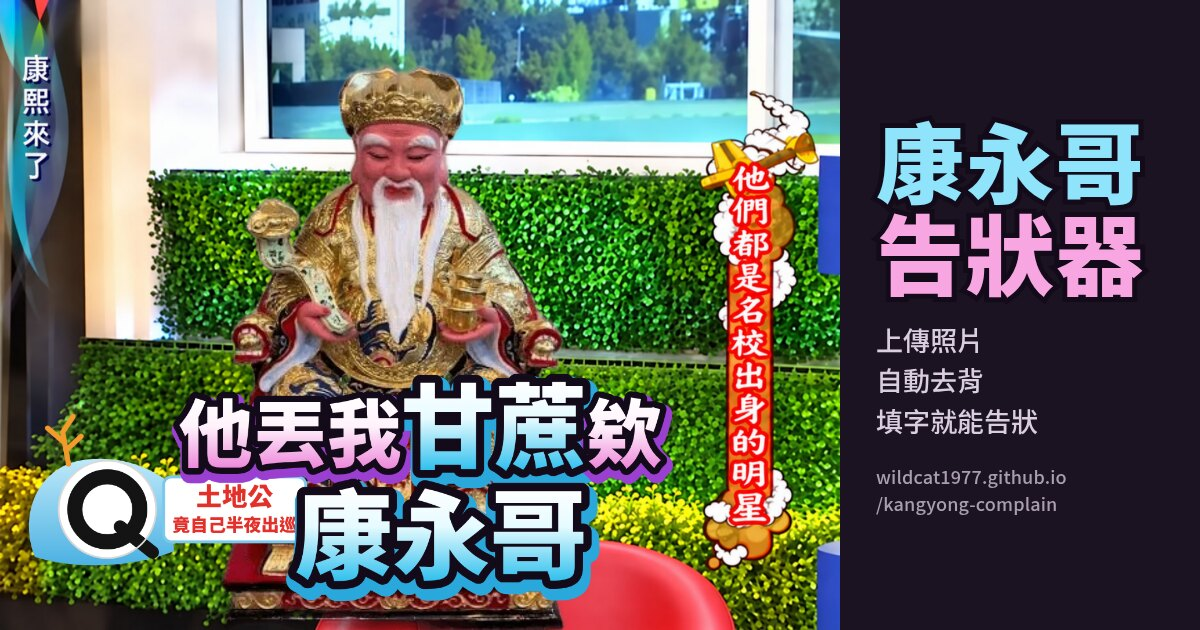
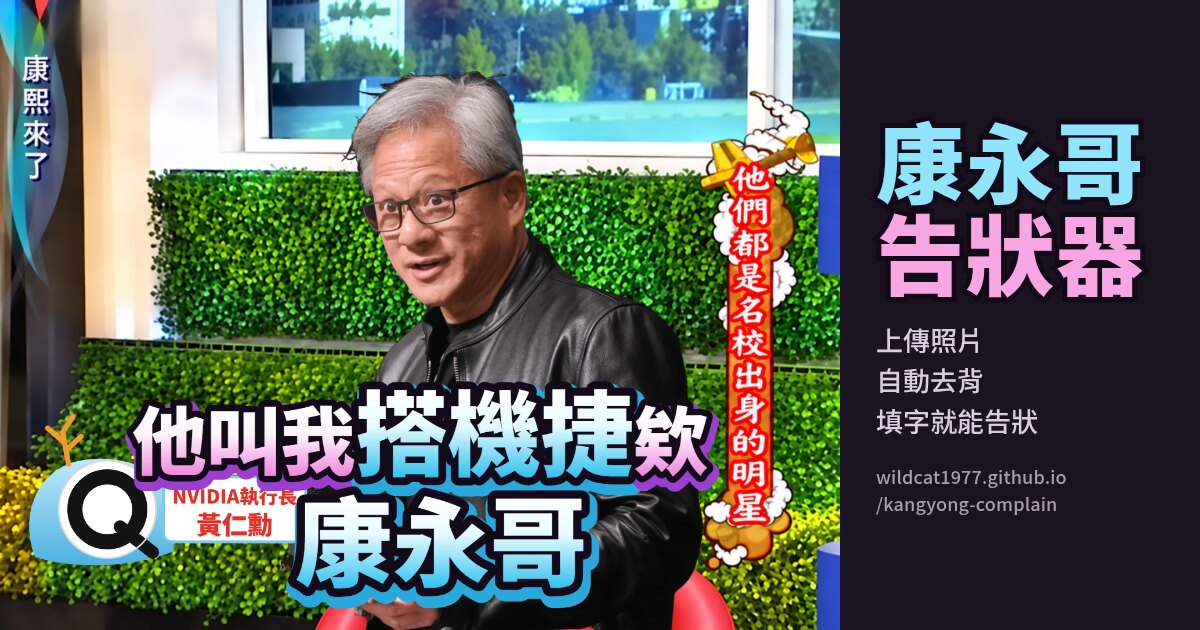
分享卡範例改用黃仁勳「他叫我[搭機捷]欸」
這是最早流傳的版本，辨識度最高。

Changed region(s): [[0.0925, 0.0905, 0.6167, 1.0]]

diff --git a/index.html b/index.html
@@ -12,7 +12,7 @@
 <meta property="og:image" content="https://wildcat1977.github.io/kangyong-complain/og.jpg">
 <meta property="og:image:width" content="1200">
 <meta property="og:image:height" content="630">
-<meta property="og:image:alt" content="康永哥告狀器範例：土地公說「他丟我甘蔗欸 康永哥」">
+<meta property="og:image:alt" content="康永哥告狀器範例：黃仁勳說「他叫我搭機捷欸 康永哥」">
 <meta name="twitter:card" content="summary_large_image">
 <link rel="preconnect" href="https://fonts.googleapis.com">
 <link rel="preconnect" href="https://fonts.gstatic.com" crossorigin>
